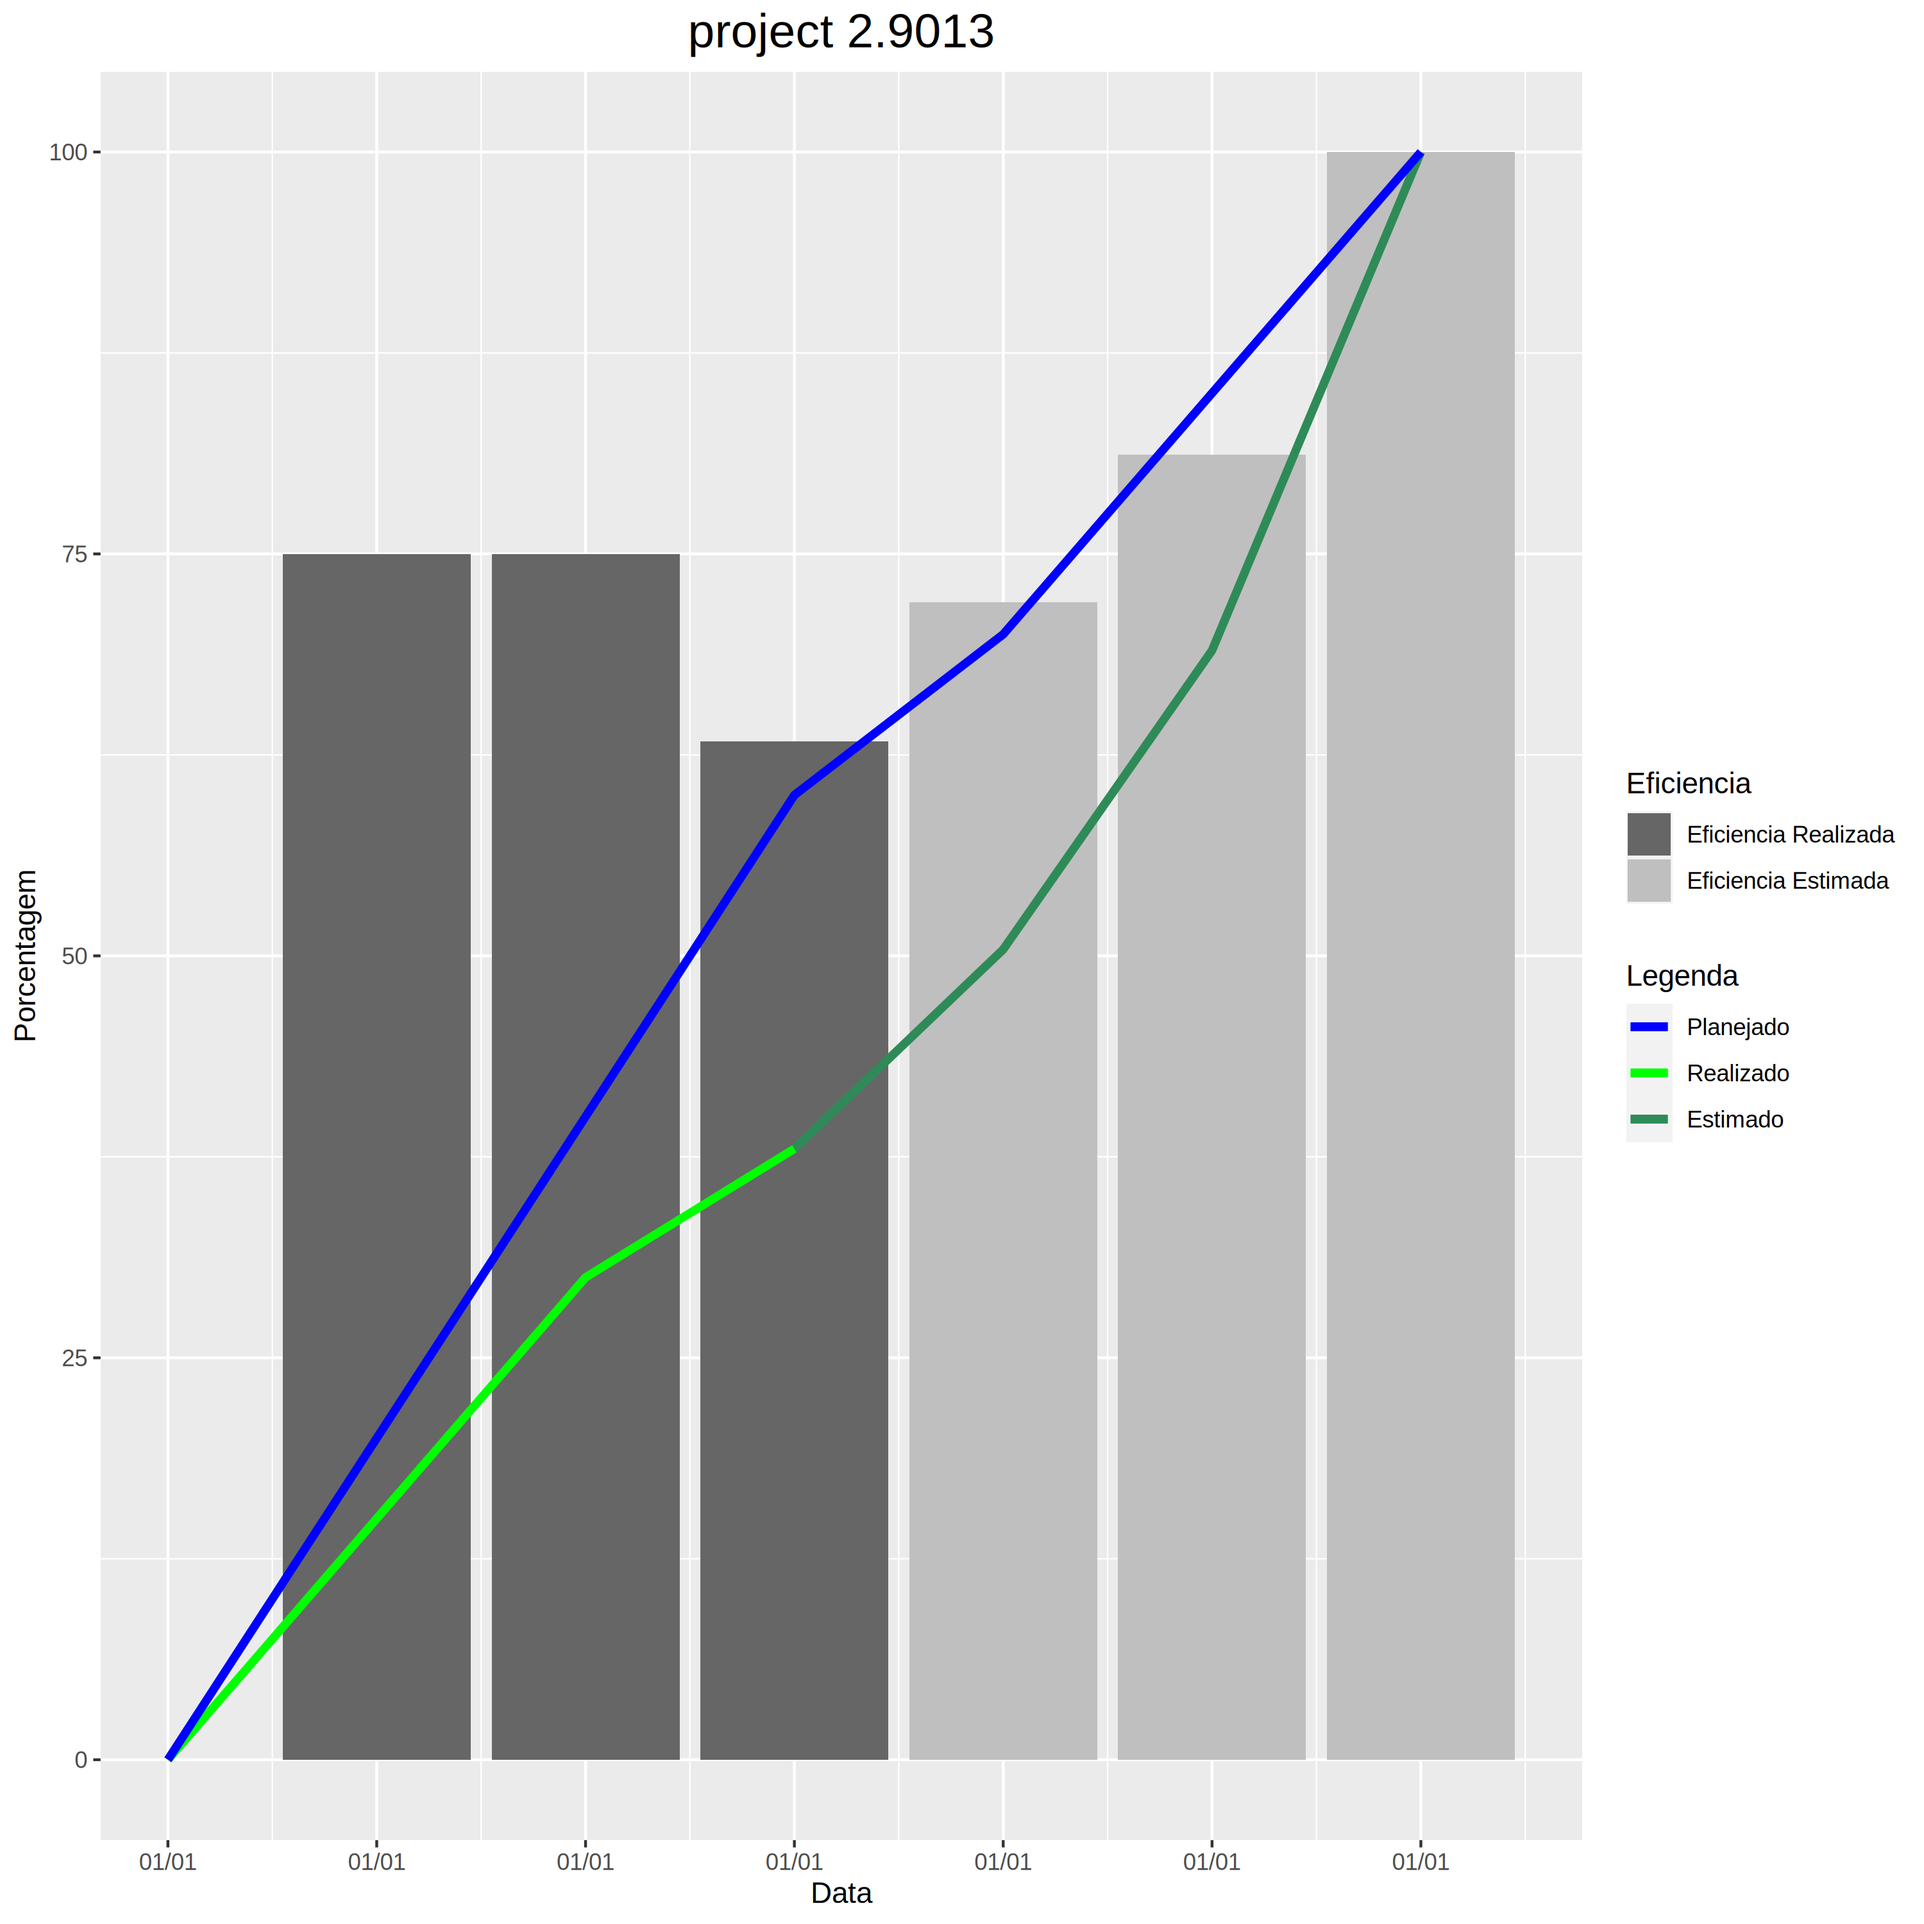
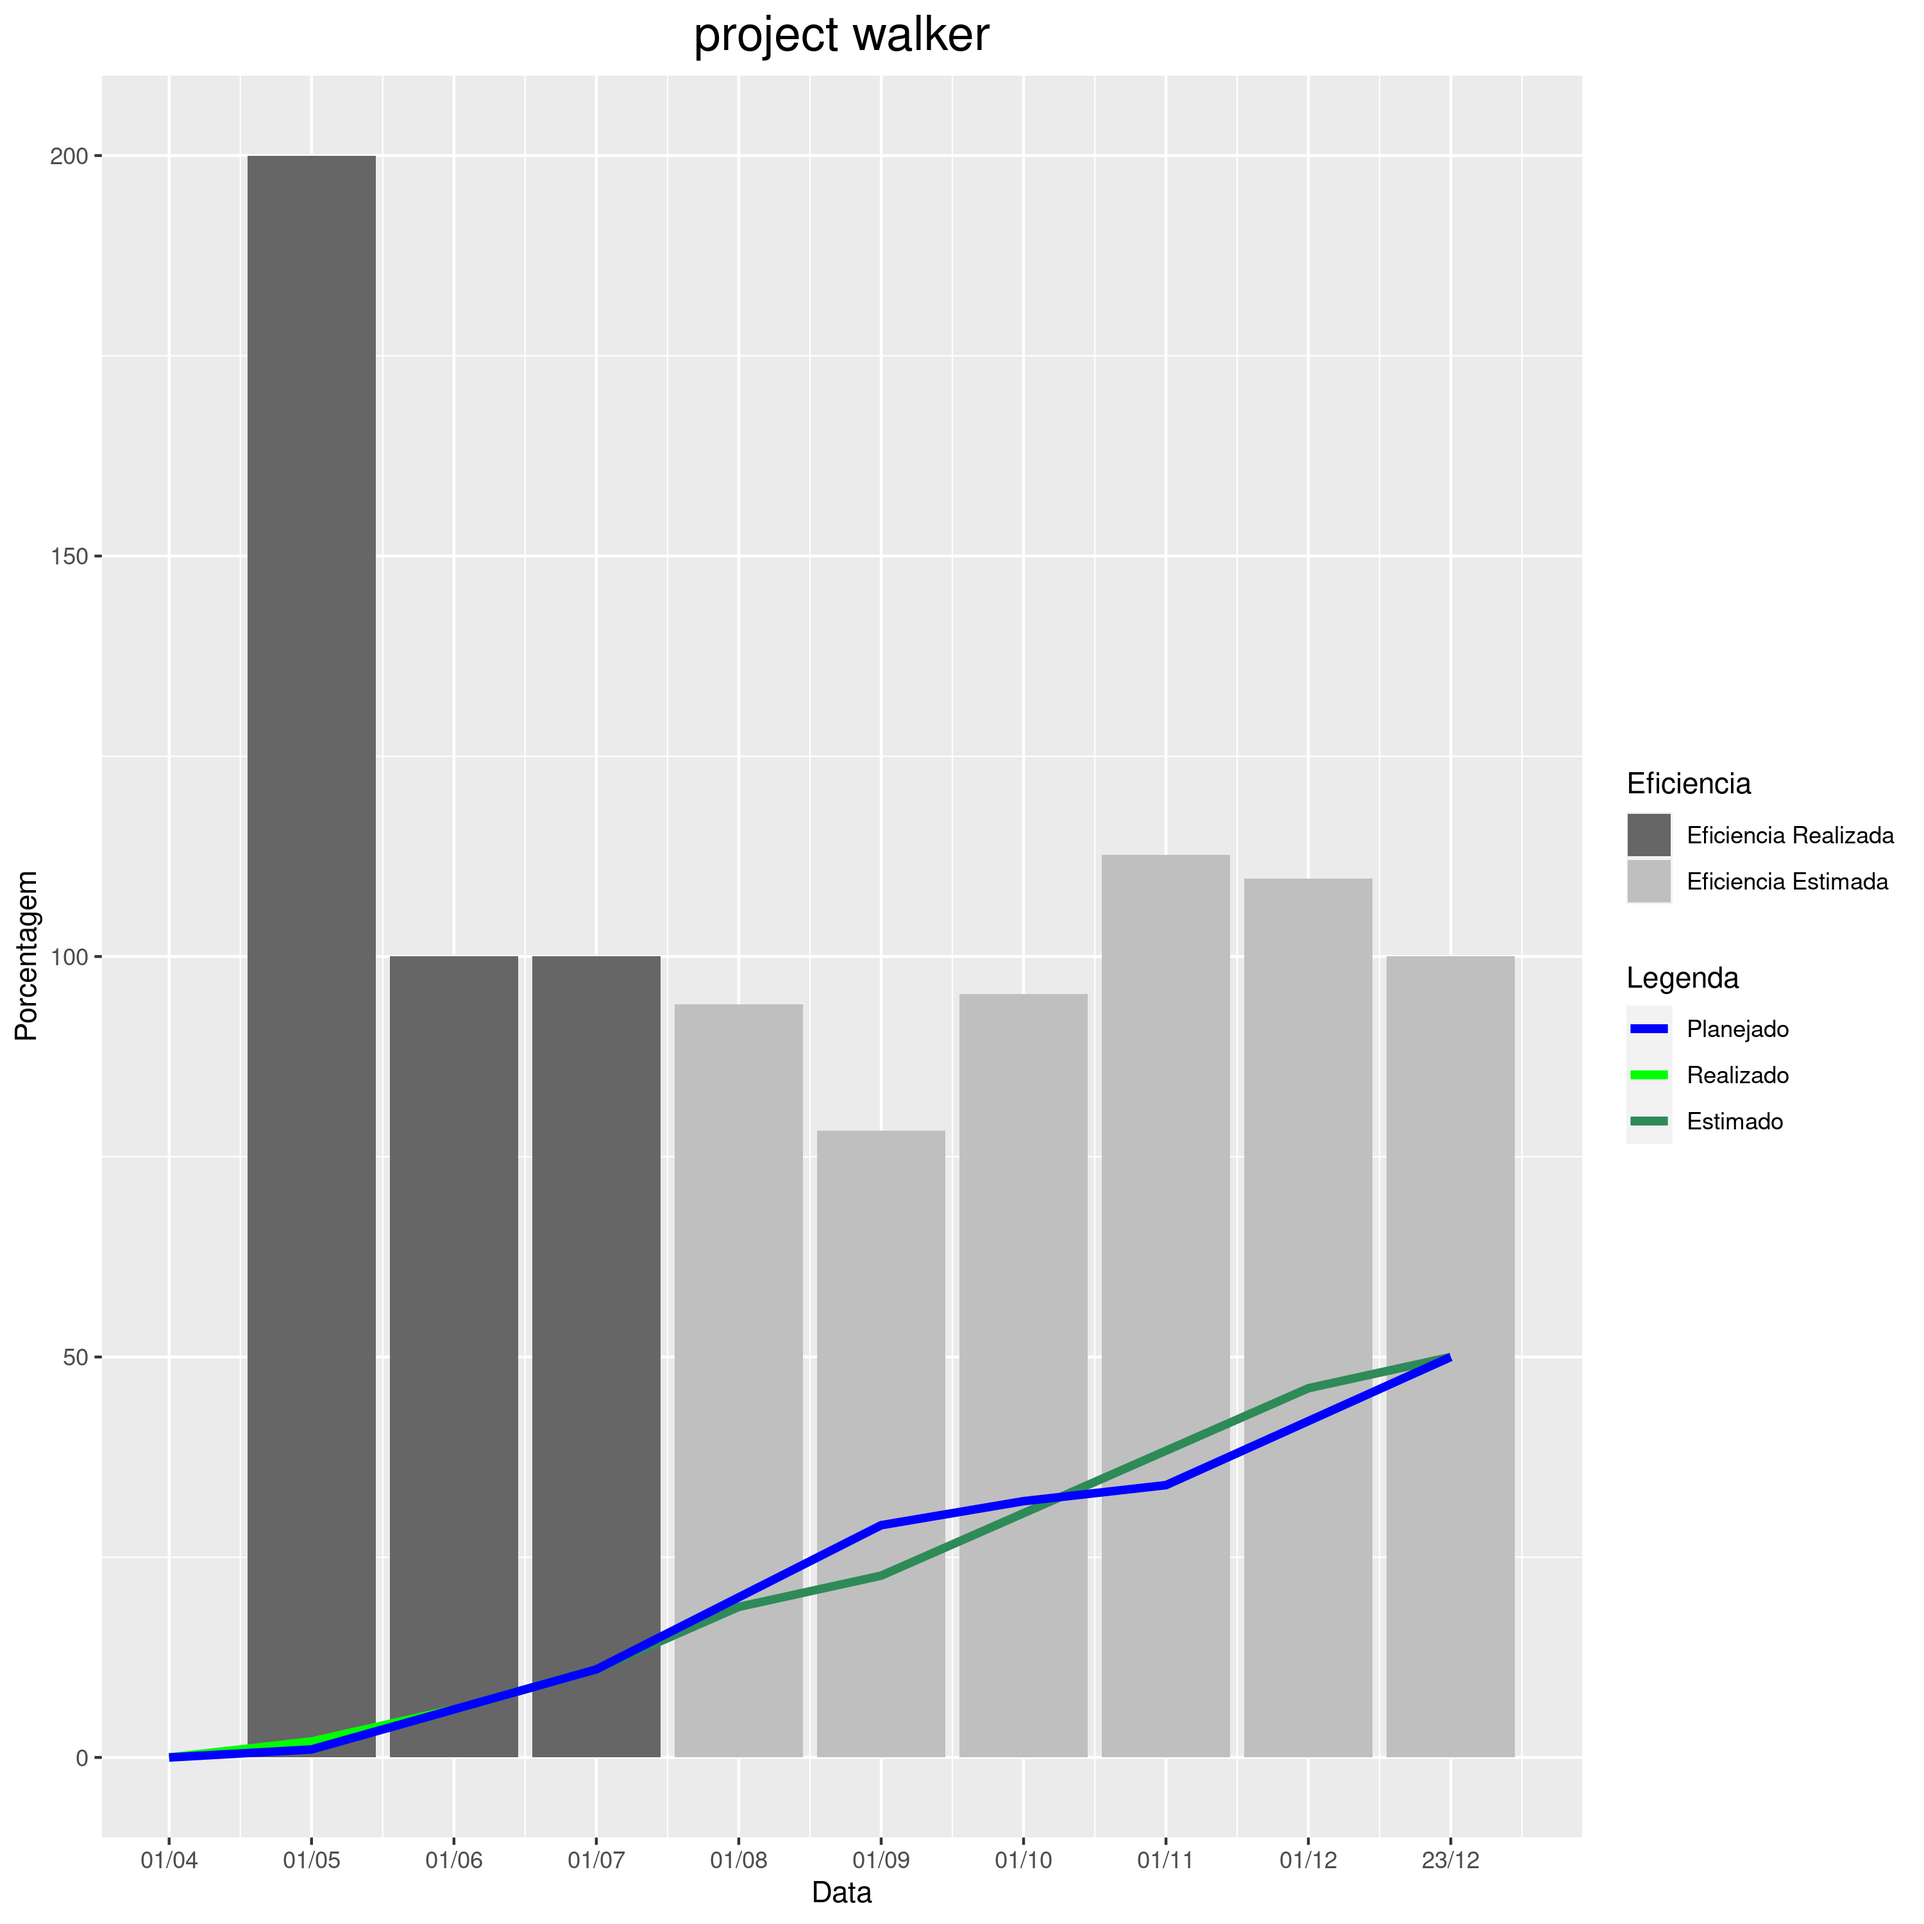
added july

diff --git a/output/graph.tex b/output/graph.tex
@@ -1,4 +1,4 @@
-% Created by tikzDevice version 0.12.3.1 on 2022-05-13 08:55:05
+% Created by tikzDevice version 0.12.3.1 on 2022-07-25 12:17:05
 % !TEX encoding = UTF-8 Unicode
 \begin{tikzpicture}[x=1pt,y=1pt]
 \definecolor{fillColor}{RGB}{255,255,255}
@@ -29,26 +29,35 @@
 \path[draw=drawColor,line width= 0.3pt,line join=round] ( 36.11,589.99) --
 	(598.26,589.99);
 
-\path[draw=drawColor,line width= 0.3pt,line join=round] (101.28, 30.69) --
-	(101.28,695.80);
+\path[draw=drawColor,line width= 0.3pt,line join=round] ( 88.70, 30.69) --
+	( 88.70,695.80);
 
-\path[draw=drawColor,line width= 0.3pt,line join=round] (180.51, 30.69) --
-	(180.51,695.80);
+\path[draw=drawColor,line width= 0.3pt,line join=round] (142.78, 30.69) --
+	(142.78,695.80);
 
-\path[draw=drawColor,line width= 0.3pt,line join=round] (259.74, 30.69) --
-	(259.74,695.80);
+\path[draw=drawColor,line width= 0.3pt,line join=round] (196.86, 30.69) --
+	(196.86,695.80);
 
-\path[draw=drawColor,line width= 0.3pt,line join=round] (338.98, 30.69) --
-	(338.98,695.80);
+\path[draw=drawColor,line width= 0.3pt,line join=round] (250.94, 30.69) --
+	(250.94,695.80);
 
-\path[draw=drawColor,line width= 0.3pt,line join=round] (418.21, 30.69) --
-	(418.21,695.80);
+\path[draw=drawColor,line width= 0.3pt,line join=round] (305.02, 30.69) --
+	(305.02,695.80);
 
-\path[draw=drawColor,line width= 0.3pt,line join=round] (497.44, 30.69) --
-	(497.44,695.80);
+\path[draw=drawColor,line width= 0.3pt,line join=round] (359.10, 30.69) --
+	(359.10,695.80);
 
-\path[draw=drawColor,line width= 0.3pt,line join=round] (576.67, 30.69) --
-	(576.67,695.80);
+\path[draw=drawColor,line width= 0.3pt,line join=round] (413.18, 30.69) --
+	(413.18,695.80);
+
+\path[draw=drawColor,line width= 0.3pt,line join=round] (467.26, 30.69) --
+	(467.26,695.80);
+
+\path[draw=drawColor,line width= 0.3pt,line join=round] (521.34, 30.69) --
+	(521.34,695.80);
+
+\path[draw=drawColor,line width= 0.3pt,line join=round] (575.42, 30.69) --
+	(575.42,695.80);
 
 \path[draw=drawColor,line width= 0.6pt,line join=round] ( 36.11, 60.92) --
 	(598.26, 60.92);
@@ -68,58 +77,79 @@
 \path[draw=drawColor,line width= 0.6pt,line join=round] ( 61.66, 30.69) --
 	( 61.66,695.80);
 
-\path[draw=drawColor,line width= 0.6pt,line join=round] (140.90, 30.69) --
-	(140.90,695.80);
+\path[draw=drawColor,line width= 0.6pt,line join=round] (115.74, 30.69) --
+	(115.74,695.80);
 
-\path[draw=drawColor,line width= 0.6pt,line join=round] (220.13, 30.69) --
-	(220.13,695.80);
+\path[draw=drawColor,line width= 0.6pt,line join=round] (169.82, 30.69) --
+	(169.82,695.80);
 
-\path[draw=drawColor,line width= 0.6pt,line join=round] (299.36, 30.69) --
-	(299.36,695.80);
+\path[draw=drawColor,line width= 0.6pt,line join=round] (223.90, 30.69) --
+	(223.90,695.80);
 
-\path[draw=drawColor,line width= 0.6pt,line join=round] (378.59, 30.69) --
-	(378.59,695.80);
+\path[draw=drawColor,line width= 0.6pt,line join=round] (277.98, 30.69) --
+	(277.98,695.80);
 
-\path[draw=drawColor,line width= 0.6pt,line join=round] (457.83, 30.69) --
-	(457.83,695.80);
+\path[draw=drawColor,line width= 0.6pt,line join=round] (332.06, 30.69) --
+	(332.06,695.80);
 
-\path[draw=drawColor,line width= 0.6pt,line join=round] (537.06, 30.69) --
-	(537.06,695.80);
+\path[draw=drawColor,line width= 0.6pt,line join=round] (386.14, 30.69) --
+	(386.14,695.80);
+
+\path[draw=drawColor,line width= 0.6pt,line join=round] (440.22, 30.69) --
+	(440.22,695.80);
+
+\path[draw=drawColor,line width= 0.6pt,line join=round] (494.30, 30.69) --
+	(494.30,695.80);
+
+\path[draw=drawColor,line width= 0.6pt,line join=round] (548.38, 30.69) --
+	(548.38,695.80);
 \definecolor{fillColor}{gray}{0.40}
 
-\path[fill=fillColor] (105.24, 60.92) rectangle (176.55,514.41);
+\path[fill=fillColor] ( 91.41, 60.92) rectangle (140.08,665.57);
 
-\path[fill=fillColor] (184.47, 60.92) rectangle (255.78,514.41);
+\path[fill=fillColor] (145.49, 60.92) rectangle (194.16,363.24);
 
-\path[fill=fillColor] (263.71, 60.92) rectangle (335.02,443.87);
+\path[fill=fillColor] (199.57, 60.92) rectangle (248.24,363.24);
 \definecolor{fillColor}{gray}{0.75}
 
-\path[fill=fillColor] (342.94, 60.92) rectangle (414.25,496.27);
+\path[fill=fillColor] (253.64, 60.92) rectangle (302.32,345.11);
 
-\path[fill=fillColor] (422.17, 60.92) rectangle (493.48,551.75);
+\path[fill=fillColor] (307.72, 60.92) rectangle (356.40,297.57);
 
-\path[fill=fillColor] (501.40, 60.92) rectangle (572.71,665.57);
+\path[fill=fillColor] (361.80, 60.92) rectangle (410.47,349.07);
+
+\path[fill=fillColor] (415.88, 60.92) rectangle (464.55,401.48);
+
+\path[fill=fillColor] (469.96, 60.92) rectangle (518.63,392.76);
+
+\path[fill=fillColor] (524.04, 60.92) rectangle (572.71,363.24);
 \definecolor{drawColor}{RGB}{46,139,87}
 
-\path[draw=drawColor,line width= 1.7pt,line join=round] (299.36,290.69) --
-	(378.59,365.66) --
-	(457.83,478.13) --
-	(537.06,665.57);
+\path[draw=drawColor,line width= 1.7pt,line join=round] (223.90, 94.17) --
+	(277.98,117.76) --
+	(332.06,129.55) --
+	(386.14,153.13) --
+	(440.22,176.71) --
+	(494.30,200.29) --
+	(548.38,212.08);
 \definecolor{drawColor}{RGB}{0,255,0}
 
 \path[draw=drawColor,line width= 1.7pt,line join=round] ( 61.66, 60.92) --
-	(140.90,151.62) --
-	(220.13,242.31) --
-	(299.36,290.69);
+	(115.74, 66.96) --
+	(169.82, 79.06) --
+	(223.90, 94.17);
 \definecolor{drawColor}{RGB}{0,0,255}
 
 \path[draw=drawColor,line width= 1.7pt,line join=round] ( 61.66, 60.92) --
-	(140.90,181.85) --
-	(220.13,302.78) --
-	(299.36,423.71) --
-	(378.59,484.18) --
-	(457.83,574.87) --
-	(537.06,665.57);
+	(115.74, 63.94) --
+	(169.82, 79.06) --
+	(223.90, 94.17) --
+	(277.98,121.38) --
+	(332.06,148.59) --
+	(386.14,157.66) --
+	(440.22,163.71) --
+	(494.30,187.90) --
+	(548.38,212.08);
 \end{scope}
 \begin{scope}
 \path[clip] (  0.00,  0.00) rectangle (722.70,722.70);
@@ -127,13 +157,13 @@
 
 \node[text=drawColor,anchor=base east,inner sep=0pt, outer sep=0pt, scale=  0.88] at ( 31.16, 57.89) {0};
 
-\node[text=drawColor,anchor=base east,inner sep=0pt, outer sep=0pt, scale=  0.88] at ( 31.16,209.05) {25};
+\node[text=drawColor,anchor=base east,inner sep=0pt, outer sep=0pt, scale=  0.88] at ( 31.16,209.05) {50};
 
-\node[text=drawColor,anchor=base east,inner sep=0pt, outer sep=0pt, scale=  0.88] at ( 31.16,360.21) {50};
+\node[text=drawColor,anchor=base east,inner sep=0pt, outer sep=0pt, scale=  0.88] at ( 31.16,360.21) {100};
 
-\node[text=drawColor,anchor=base east,inner sep=0pt, outer sep=0pt, scale=  0.88] at ( 31.16,511.38) {75};
+\node[text=drawColor,anchor=base east,inner sep=0pt, outer sep=0pt, scale=  0.88] at ( 31.16,511.38) {150};
 
-\node[text=drawColor,anchor=base east,inner sep=0pt, outer sep=0pt, scale=  0.88] at ( 31.16,662.54) {100};
+\node[text=drawColor,anchor=base east,inner sep=0pt, outer sep=0pt, scale=  0.88] at ( 31.16,662.54) {200};
 \end{scope}
 \begin{scope}
 \path[clip] (  0.00,  0.00) rectangle (722.70,722.70);
@@ -161,41 +191,56 @@
 \path[draw=drawColor,line width= 0.6pt,line join=round] ( 61.66, 27.94) --
 	( 61.66, 30.69);
 
-\path[draw=drawColor,line width= 0.6pt,line join=round] (140.90, 27.94) --
-	(140.90, 30.69);
+\path[draw=drawColor,line width= 0.6pt,line join=round] (115.74, 27.94) --
+	(115.74, 30.69);
 
-\path[draw=drawColor,line width= 0.6pt,line join=round] (220.13, 27.94) --
-	(220.13, 30.69);
+\path[draw=drawColor,line width= 0.6pt,line join=round] (169.82, 27.94) --
+	(169.82, 30.69);
 
-\path[draw=drawColor,line width= 0.6pt,line join=round] (299.36, 27.94) --
-	(299.36, 30.69);
+\path[draw=drawColor,line width= 0.6pt,line join=round] (223.90, 27.94) --
+	(223.90, 30.69);
 
-\path[draw=drawColor,line width= 0.6pt,line join=round] (378.59, 27.94) --
-	(378.59, 30.69);
+\path[draw=drawColor,line width= 0.6pt,line join=round] (277.98, 27.94) --
+	(277.98, 30.69);
 
-\path[draw=drawColor,line width= 0.6pt,line join=round] (457.83, 27.94) --
-	(457.83, 30.69);
+\path[draw=drawColor,line width= 0.6pt,line join=round] (332.06, 27.94) --
+	(332.06, 30.69);
 
-\path[draw=drawColor,line width= 0.6pt,line join=round] (537.06, 27.94) --
-	(537.06, 30.69);
+\path[draw=drawColor,line width= 0.6pt,line join=round] (386.14, 27.94) --
+	(386.14, 30.69);
+
+\path[draw=drawColor,line width= 0.6pt,line join=round] (440.22, 27.94) --
+	(440.22, 30.69);
+
+\path[draw=drawColor,line width= 0.6pt,line join=round] (494.30, 27.94) --
+	(494.30, 30.69);
+
+\path[draw=drawColor,line width= 0.6pt,line join=round] (548.38, 27.94) --
+	(548.38, 30.69);
 \end{scope}
 \begin{scope}
 \path[clip] (  0.00,  0.00) rectangle (722.70,722.70);
 \definecolor{drawColor}{gray}{0.30}
 
-\node[text=drawColor,anchor=base,inner sep=0pt, outer sep=0pt, scale=  0.88] at ( 61.66, 19.68) {01/01};
+\node[text=drawColor,anchor=base,inner sep=0pt, outer sep=0pt, scale=  0.88] at ( 61.66, 19.68) {01/04};
 
-\node[text=drawColor,anchor=base,inner sep=0pt, outer sep=0pt, scale=  0.88] at (140.90, 19.68) {01/01};
+\node[text=drawColor,anchor=base,inner sep=0pt, outer sep=0pt, scale=  0.88] at (115.74, 19.68) {01/05};
 
-\node[text=drawColor,anchor=base,inner sep=0pt, outer sep=0pt, scale=  0.88] at (220.13, 19.68) {01/01};
+\node[text=drawColor,anchor=base,inner sep=0pt, outer sep=0pt, scale=  0.88] at (169.82, 19.68) {01/06};
 
-\node[text=drawColor,anchor=base,inner sep=0pt, outer sep=0pt, scale=  0.88] at (299.36, 19.68) {01/01};
+\node[text=drawColor,anchor=base,inner sep=0pt, outer sep=0pt, scale=  0.88] at (223.90, 19.68) {01/07};
 
-\node[text=drawColor,anchor=base,inner sep=0pt, outer sep=0pt, scale=  0.88] at (378.59, 19.68) {01/01};
+\node[text=drawColor,anchor=base,inner sep=0pt, outer sep=0pt, scale=  0.88] at (277.98, 19.68) {01/08};
 
-\node[text=drawColor,anchor=base,inner sep=0pt, outer sep=0pt, scale=  0.88] at (457.83, 19.68) {01/01};
+\node[text=drawColor,anchor=base,inner sep=0pt, outer sep=0pt, scale=  0.88] at (332.06, 19.68) {01/09};
 
-\node[text=drawColor,anchor=base,inner sep=0pt, outer sep=0pt, scale=  0.88] at (537.06, 19.68) {01/01};
+\node[text=drawColor,anchor=base,inner sep=0pt, outer sep=0pt, scale=  0.88] at (386.14, 19.68) {01/10};
+
+\node[text=drawColor,anchor=base,inner sep=0pt, outer sep=0pt, scale=  0.88] at (440.22, 19.68) {01/11};
+
+\node[text=drawColor,anchor=base,inner sep=0pt, outer sep=0pt, scale=  0.88] at (494.30, 19.68) {01/12};
+
+\node[text=drawColor,anchor=base,inner sep=0pt, outer sep=0pt, scale=  0.88] at (548.38, 19.68) {23/12};
 \end{scope}
 \begin{scope}
 \path[clip] (  0.00,  0.00) rectangle (722.70,722.70);
@@ -375,6 +420,6 @@
 \path[clip] (  0.00,  0.00) rectangle (722.70,722.70);
 \definecolor{drawColor}{RGB}{0,0,0}
 
-\node[text=drawColor,anchor=base,inner sep=0pt, outer sep=0pt, scale=  1.80] at (317.19,704.80) {project 2.9013};
+\node[text=drawColor,anchor=base,inner sep=0pt, outer sep=0pt, scale=  1.80] at (317.19,704.80) {project walker};
 \end{scope}
 \end{tikzpicture}
